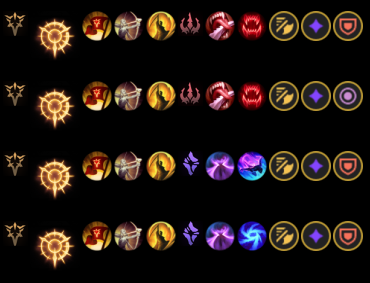
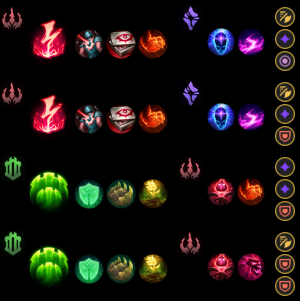
rune draw resize adjust

diff --git a/lib/src/main/java/gerrybot/league/Draw.java b/lib/src/main/java/gerrybot/league/Draw.java
@@ -6,38 +6,17 @@ import java.awt.Image;
 import java.awt.image.BufferedImage;
 import java.util.ArrayList;
 
-public class Draw {
-	//Symbol == 25 / 23
- 	//pRunes == 50
-	//sRunes == 30 / 28
-	//mRunes == 10(i guess)
-	
-	
+public class Draw {	
 	protected BufferedImage drawRunes(ArrayList<BufferedImage> runes) {
-		int loadedRunePages = runes.size() / 11;
-		BufferedImage finalImage = new BufferedImage(1,1,BufferedImage.TYPE_INT_ARGB);
+		int loadedPages = runes.size() / 11;
 		
-		for(int i = 0; i < loadedRunePages; i++) {
-			BufferedImage runePage = new BufferedImage(1,1,BufferedImage.TYPE_INT_ARGB);
-			
-			for(int j = 0 + (11*i); j < 11*(i+1); j++) {
-				if(j % 11 == 0 || j == 5 || j == 16 || j == 27 || j == 38) {
-					runes.set(j, resize(runes.get(j), 25,25));
-				}
-				else if(j == 1 || j == 12 || j == 23 || j == 34) {
-					runes.set(j, resize(runes.get(j), 50,50));
-				}
-				else {
-					runes.set(j, resize(runes.get(j),30,30));
-				}
-				
-				runePage = concatImagesHorizontally(runePage, runes.get(j));
-			}
-
-			finalImage = concatImageVertically(finalImage, runePage);
+		BufferedImage finalImage = new BufferedImage(1,1,2);
+		
+		for(int i = 0; i < loadedPages; i++) {
+			finalImage = concatImageVertically(finalImage, drawRunePage(runes, i*11));
 		}
 		
-		return concatImagesHorizontally(finalImage, new BufferedImage(5,1,2));
+		return finalImage;
 	}
 	
 	protected BufferedImage drawBuilds(ArrayList<BufferedImage> runes) {
@@ -46,6 +25,59 @@ public class Draw {
 	
 	protected BufferedImage drawAll(ArrayList<BufferedImage> runes) {
 		return null;
+	}
+	
+	private BufferedImage drawRunePage(ArrayList<BufferedImage> runes, int firstElement) {
+		int width = 300;
+		int height = 75;
+		
+		BufferedImage runePage = new BufferedImage(width, height, BufferedImage.TYPE_INT_ARGB);
+		
+		Graphics2D g2 = runePage.createGraphics();
+		Color oldColor = g2.getColor();
+		g2.setPaint(Color.BLACK);
+		g2.fillRect(0, 0, width, height);
+		g2.setColor(oldColor);
+		
+		//Symbol rune 01
+		g2.drawImage(resize(runes.get(firstElement), 25), null, 0, 2);
+		
+		//pRune
+		g2.drawImage(runes.get(firstElement + 1), null, 24, 13);
+		
+
+		//sRune 01
+		g2.drawImage(resize(runes.get(firstElement + 2), 30), null, 74, 25);
+		
+		//sRune 02
+		g2.drawImage(resize(runes.get(firstElement + 3), 30), null, 106, 25);
+		
+		//sRune 03
+		g2.drawImage(resize(runes.get(firstElement + 4), 30), null, 138, 25);
+		
+		
+		//Symbol rune 02
+		g2.drawImage(resize(runes.get(firstElement + 5), 25),null, 178, 2);
+		
+		//sRune 04
+		g2.drawImage(resize(runes.get(firstElement + 6), 28), null, 207, 24);
+		
+		//sRune 05
+		g2.drawImage(resize(runes.get(firstElement + 7), 28), null, 237, 24);
+		
+		
+		//mRune 01
+		g2.drawImage(resize(runes.get(firstElement + 8), 20), null, 275, 3);
+		
+		//mRune 02
+		g2.drawImage(resize(runes.get(firstElement + 9), 20), null, 275, 25);
+		
+		//mRune 03
+		g2.drawImage(resize(runes.get(firstElement + 10), 20), null, 275, 47);
+		
+		g2.dispose();
+		
+		return runePage;
 	}
 	
 	private BufferedImage concatImagesHorizontally(BufferedImage image1, BufferedImage image2) {
@@ -66,7 +98,7 @@ public class Draw {
 	}
 	
 	private BufferedImage concatImageVertically(BufferedImage image1, BufferedImage image2) {
-		int vGap = 10;
+		int vGap = 3;
 		int width = Math.max(image1.getWidth(), image2.getWidth());
 		int height = image1.getHeight() + image2.getHeight();
 		BufferedImage newImage = new BufferedImage(width, height,BufferedImage.TYPE_INT_ARGB);
@@ -81,15 +113,15 @@ public class Draw {
 		g2.dispose();
 		return newImage;
 	}
-	
-	public static BufferedImage resize(BufferedImage img, int newW, int newH) { 
-	    Image tmp = img.getScaledInstance(newW, newH, Image.SCALE_SMOOTH);
-	    BufferedImage dimg = new BufferedImage(newW, newH, BufferedImage.TYPE_INT_ARGB);
+
+	private BufferedImage resize(BufferedImage img, int newSize) { 
+	    Image tmp = img.getScaledInstance(newSize, newSize, Image.SCALE_SMOOTH);
+	    BufferedImage dimg = new BufferedImage(newSize, newSize, BufferedImage.TYPE_INT_ARGB);
 
 	    Graphics2D g2d = dimg.createGraphics();
 	    g2d.drawImage(tmp, 0, 0, null);
 	    g2d.dispose();
 
 	    return dimg;
-	}  
+	}
 }
